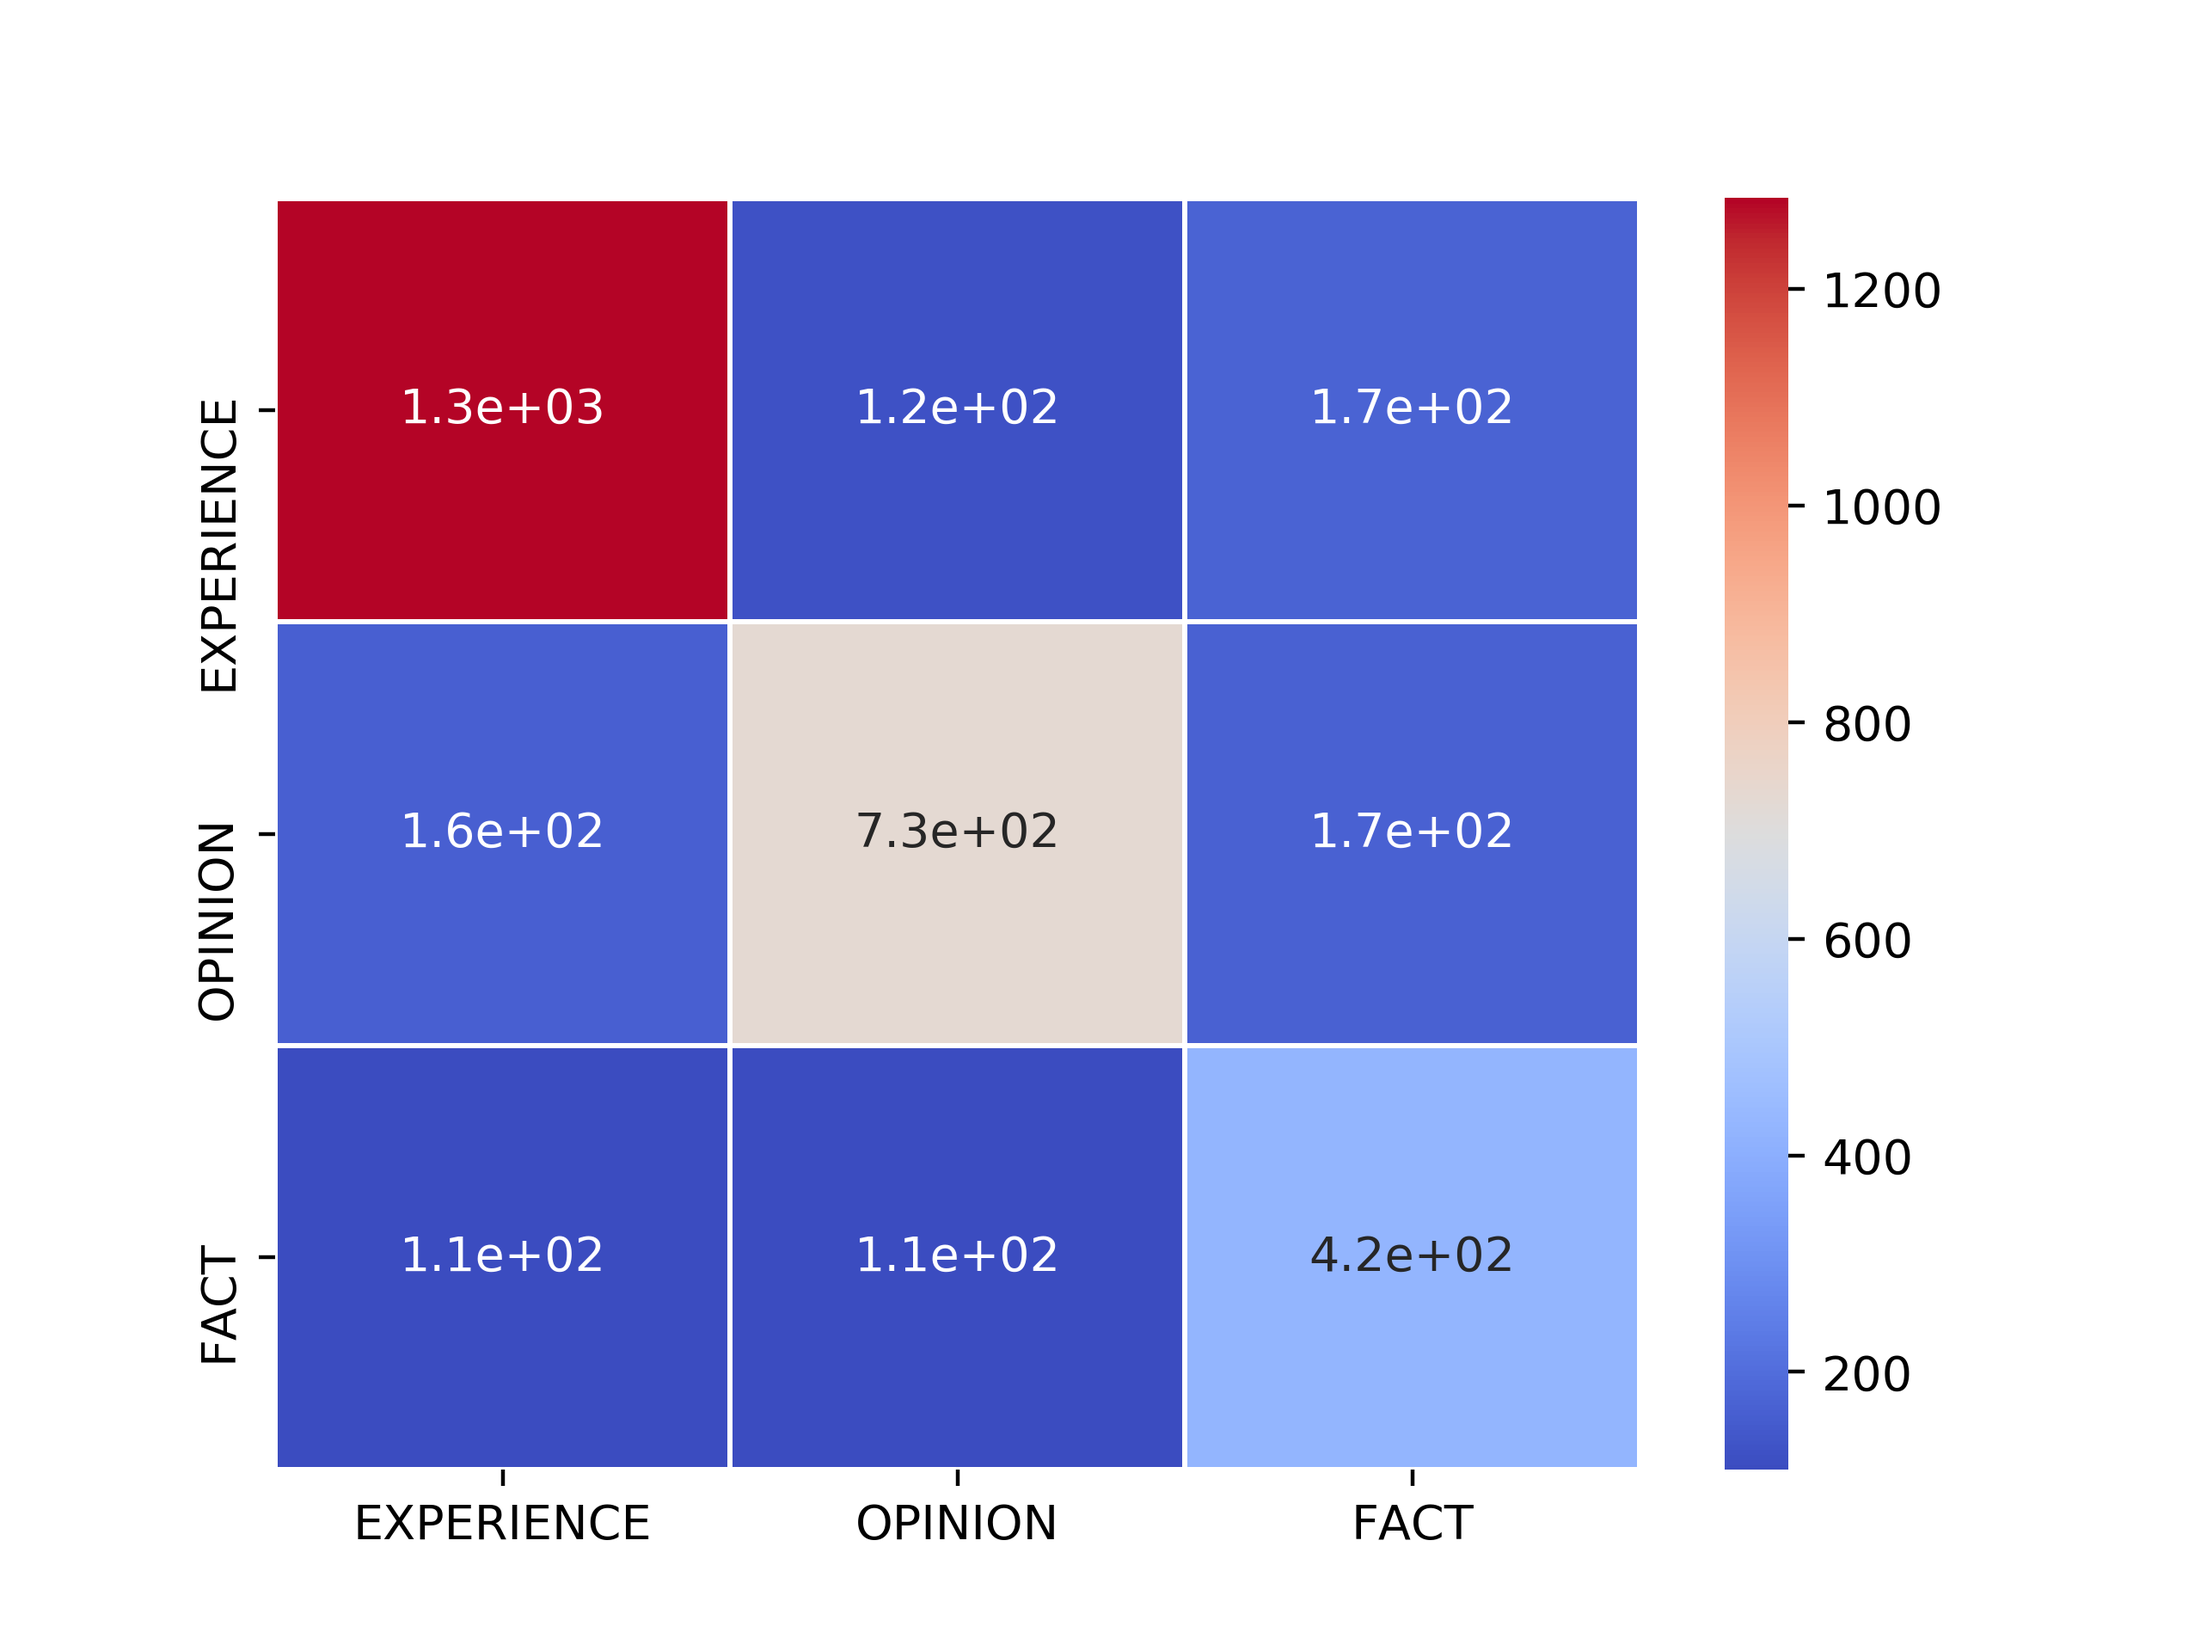
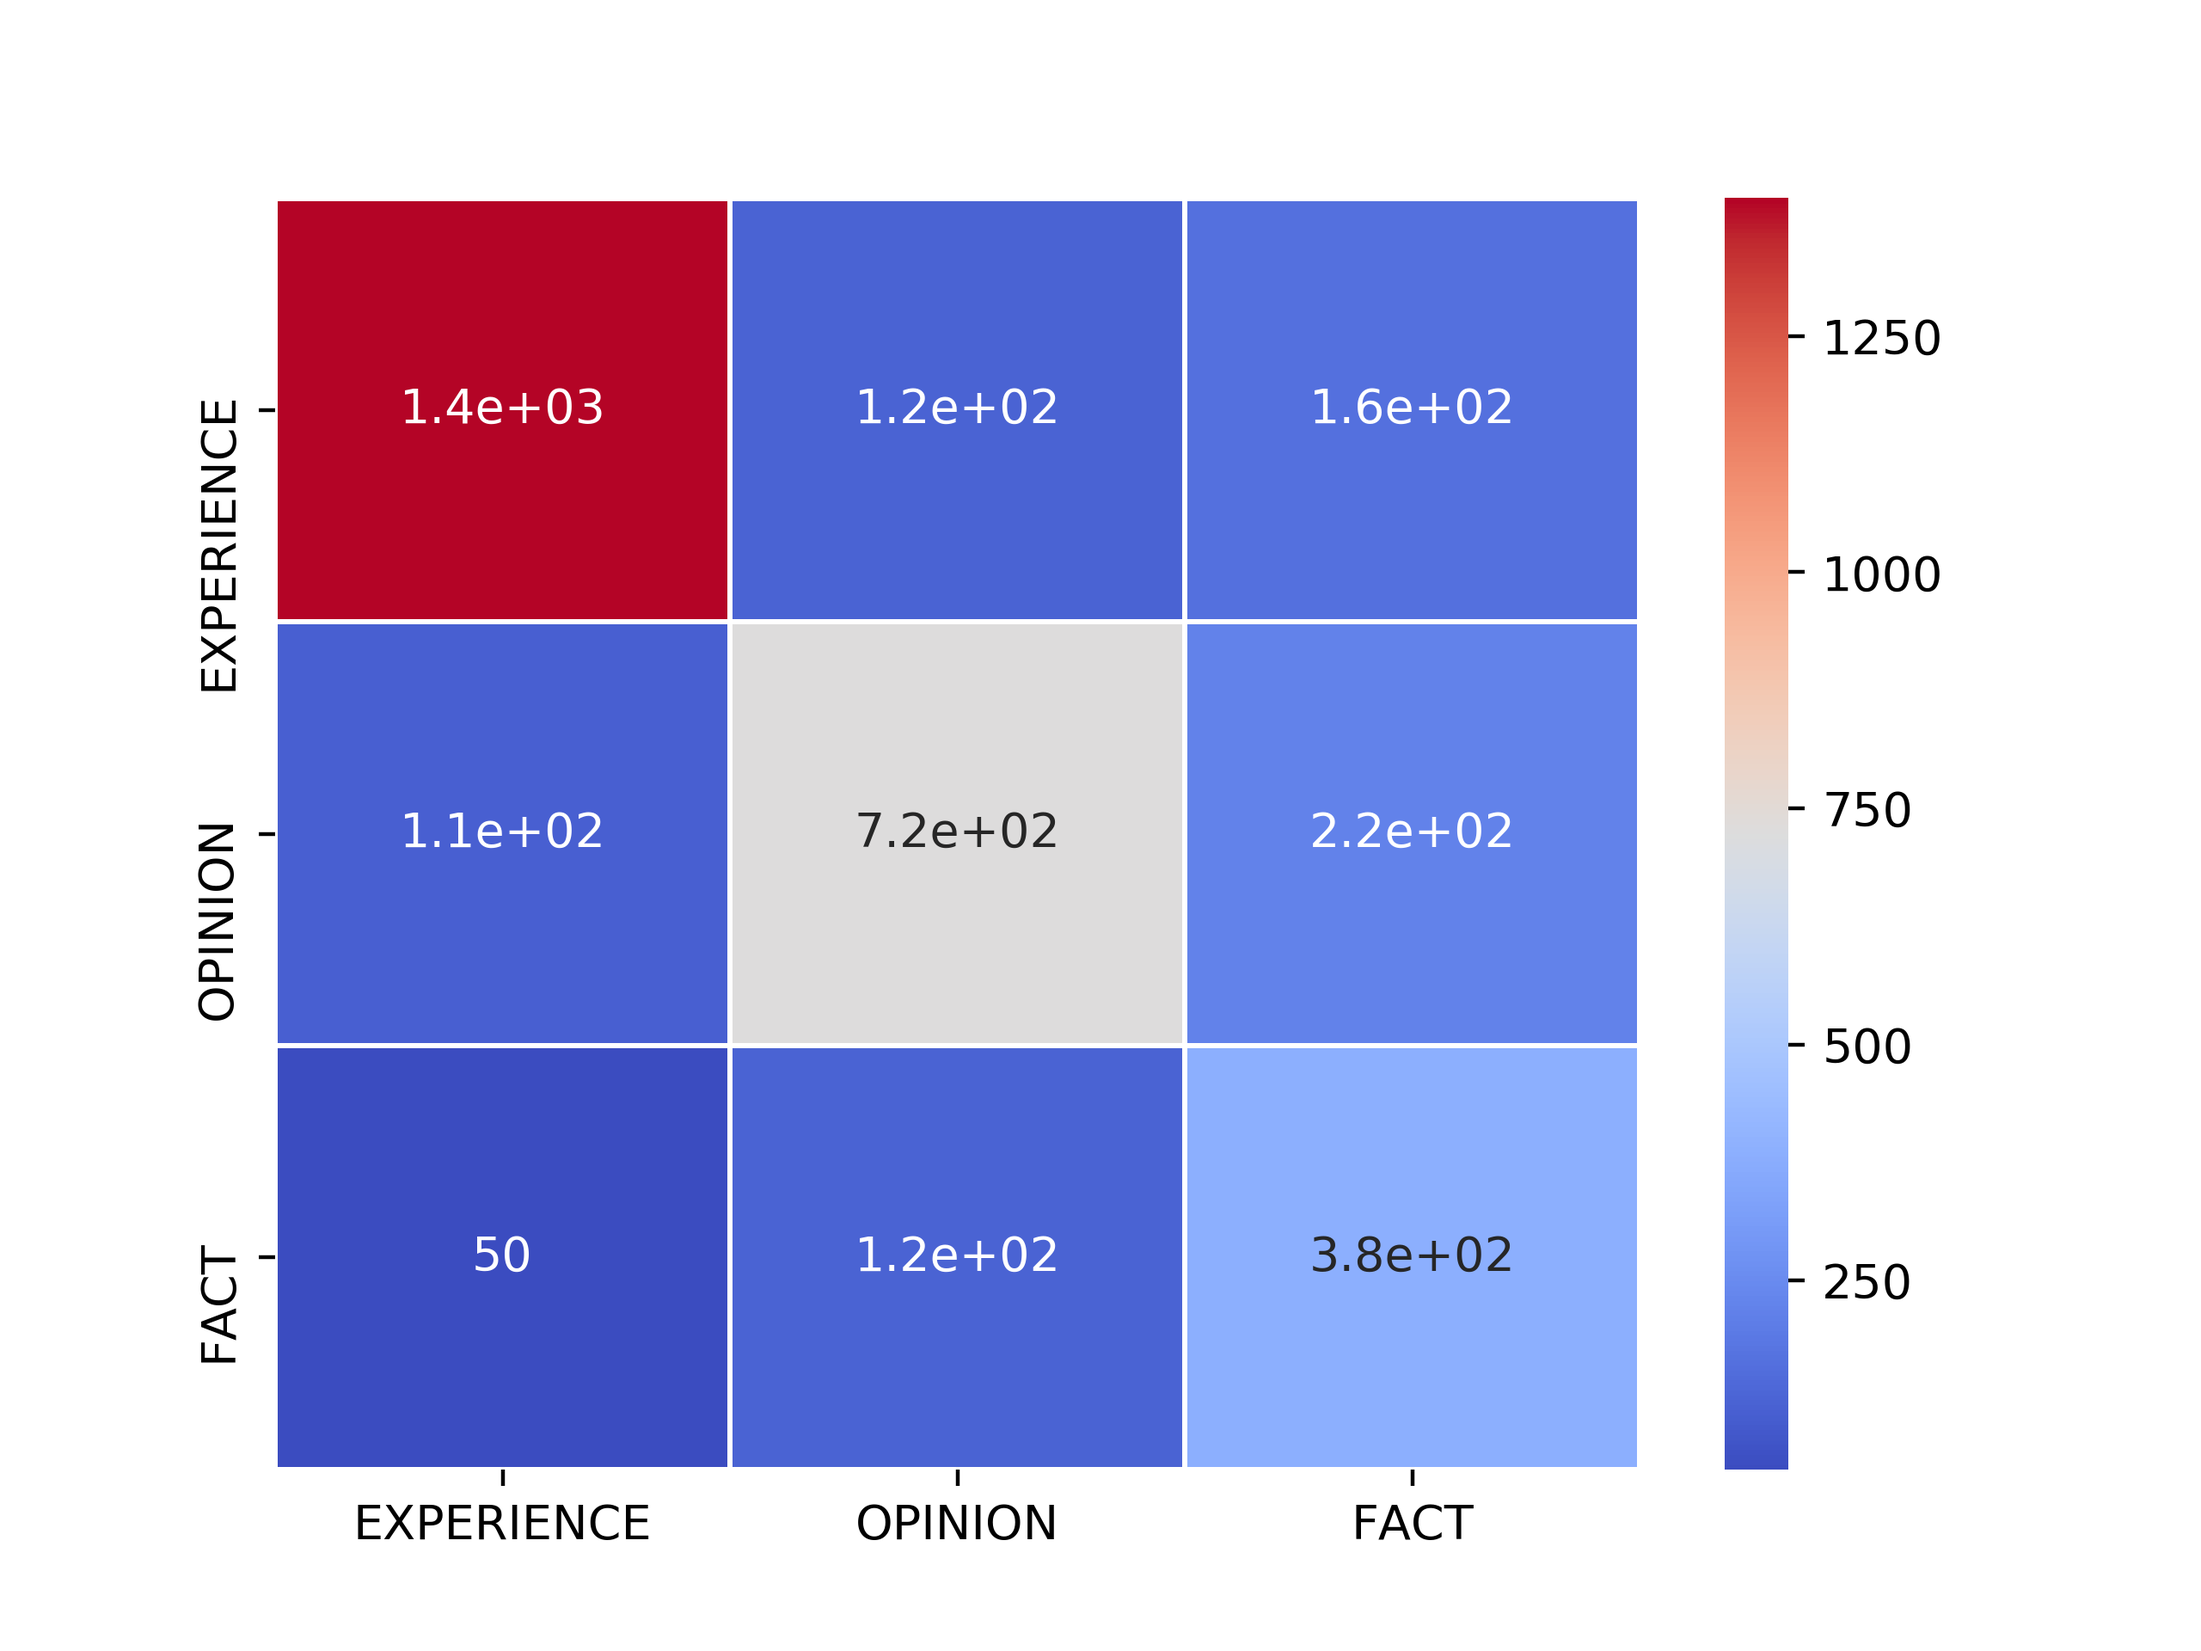
test fig

diff --git a/XLNet/BERT_Classifier.py b/XLNet/BERT_Classifier.py
@@ -385,13 +385,12 @@ def Error_analysis(p_p, p_t, p_s, f_p, f_t, f_s):
             error_m_row.append(error_hash_map[str(p_array[:2, col])])
             error_m_column.append(error_hash_map[str(f_array[:2, f_array[2, :]==p_array[2,col]].T[0])])
     error_array = confusion_matrix(error_m_row, error_m_column)
-    df_error_m = pd.DataFrame(error_array)
-    #df_error_m = pd.DataFrame(error_array, index = error_matrix_index, columns = error_matrix_column)
+    df_error_m = pd.DataFrame(error_array, index = error_matrix_index, columns = error_matrix_column)
     err_heat_map = sn.heatmap(df_error_m, annot=True)
-    err_heat_map.set_xlabel(error_matrix_index, fontsize = 5)
-    err_heat_map.set_ylabel(error_matrix_column, fontsize = 5)
+    err_heat_map.tick_params(axis = 'x', which = 'major', labelsize=6)
+    err_heat_map.tick_params(axis = 'y', which = 'major', labelsize=9)
     figure_error = err_heat_map.get_figure()
-    figure_error.savefig('BERT_error_matrix.png')
+    figure_error.savefig('BERT_error_matrix.png', dpi = 500)
     plt.close()
 
 if __name__ == '__main__':
